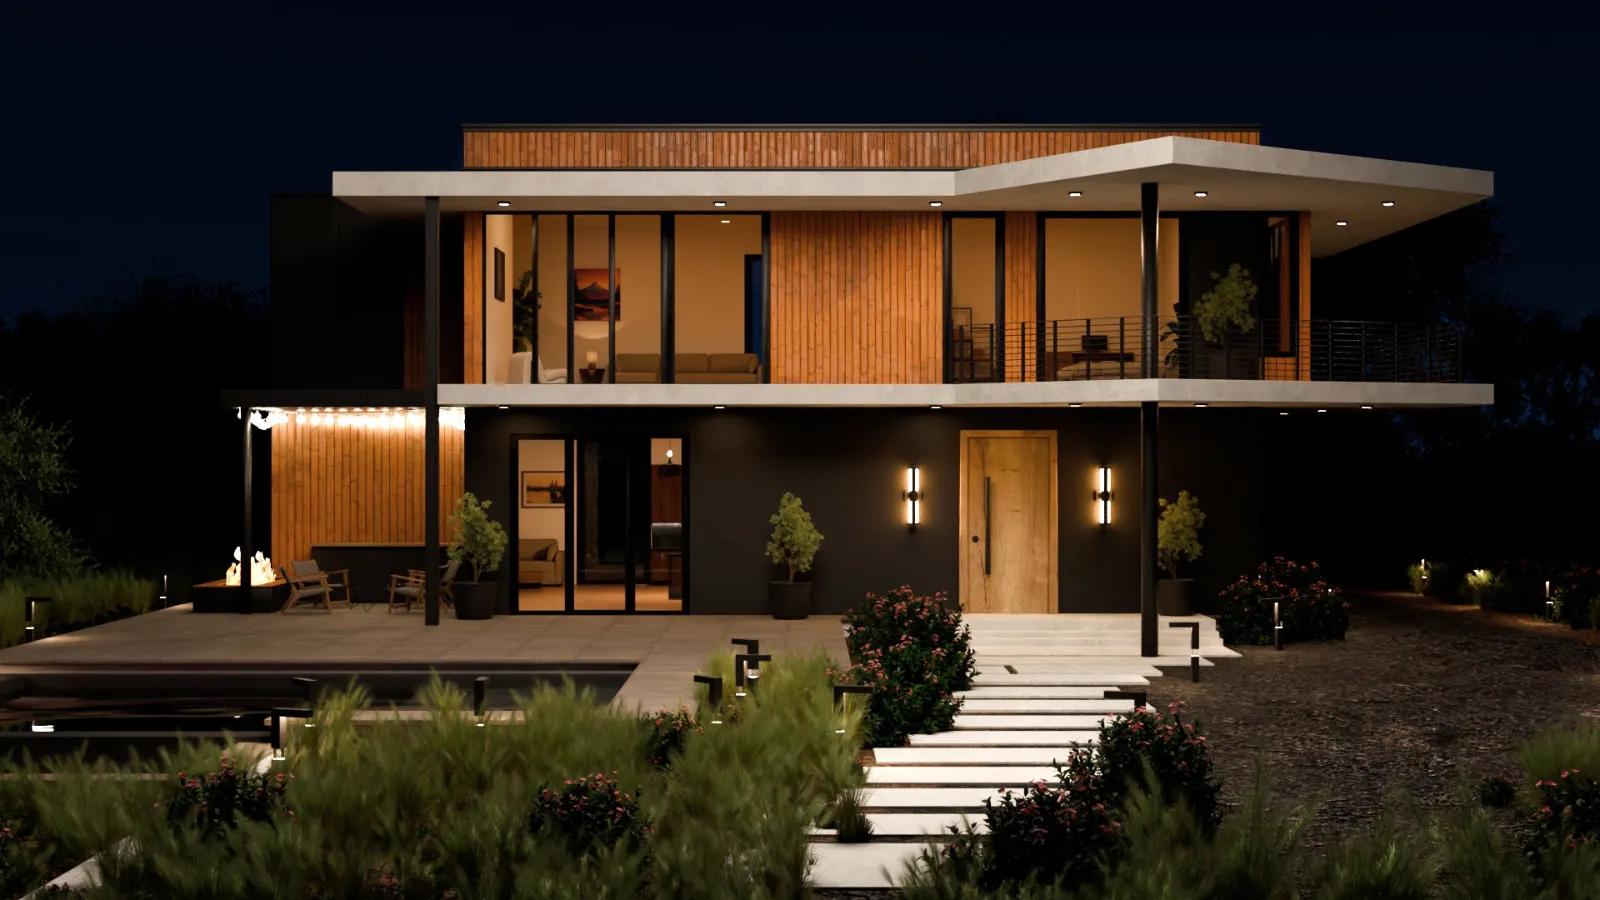
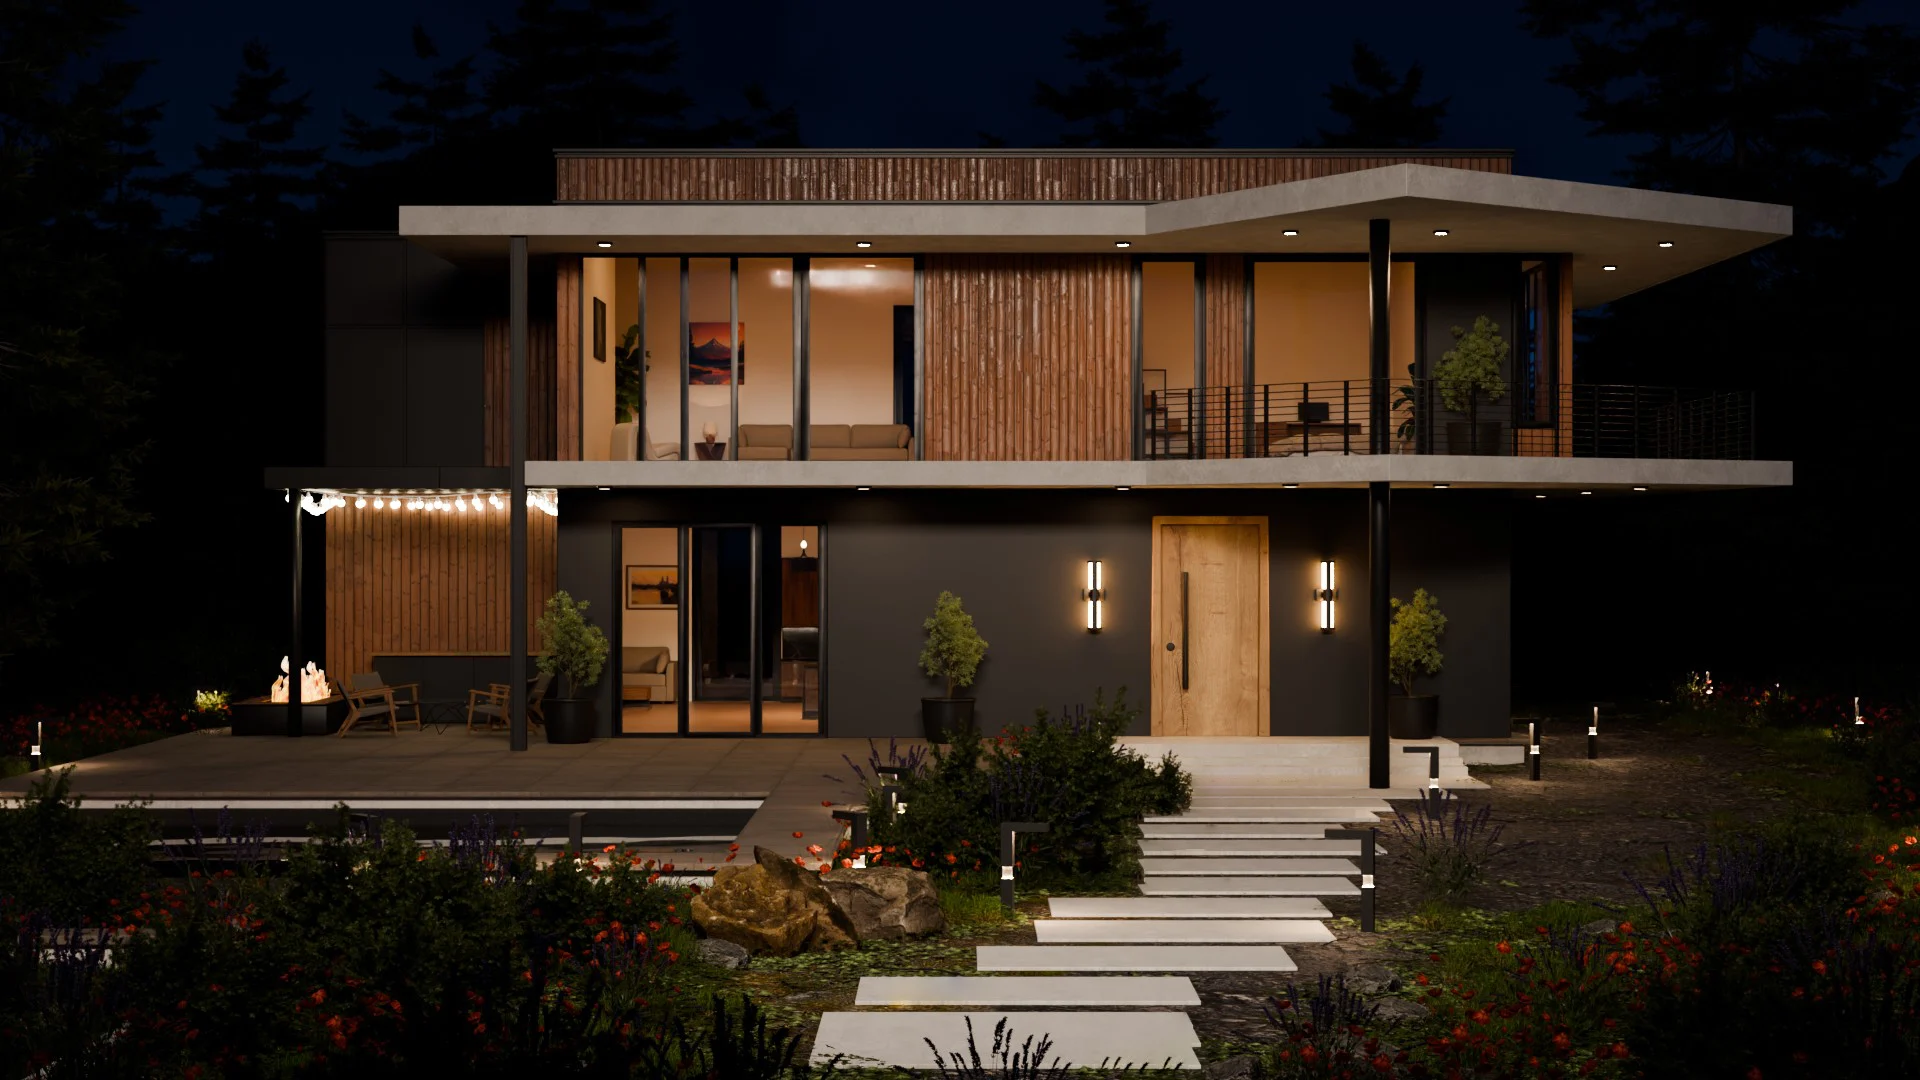
ss
ss

diff --git a/lib/projects.ts b/lib/projects.ts
@@ -647,97 +647,6 @@ export const PROJECTS: Project[] = [
     ],
   },
   {
-    id: "5",
-    slug: "modern-house-exterior",
-    thumbnail: "/images/Project_Images/bg.webp",
-    heroImage: "/images/Project_Images/exteriorday1.webp",
-    previewImage: "/images/Project_Images/exteriorday1.webp",
-    title: "Modern House Exterior",
-    titleRo: "Exterior Casa Moderna",
-    subtitle: "Personal ArchViz Project",
-    subtitleRo: "Proiect Personal ArchViz",
-    description:
-      "Photorealistic exterior visualization of a modern house with clean architectural lines, generous glazing, and a warm natural material palette. The project focuses on atmosphere, realistic daylight behavior, and evening presentation, showing how the same facade performs across different lighting conditions.",
-    descriptionRo:
-      "Vizualizare fotorealista de exterior pentru o casa moderna, cu linii arhitecturale curate, vitraje generoase si o paleta calda de materiale naturale. Proiectul pune accent pe atmosfera, comportamentul realist al luminii de zi si prezentarea de seara, aratand cum aceeasi fatada functioneaza in conditii diferite de iluminare.",
-    tools: ["Blender", "Affinity Photo", "Autodesk AutoCAD"],
-    year: "2026",
-    type: "Exterior Architectural Visualization",
-    typeRo: "Vizualizare Arhitecturala de Exterior",
-    imageAlt:
-      "Modern house exterior architectural visualization with clean lines, large glass openings, and warm materials shown in day and night lighting",
-    imageAltRo:
-      "Vizualizare arhitecturala de exterior pentru o casa moderna, cu linii curate, vitraje mari si materiale calde, prezentata in lumina de zi si de noapte",
-    metaTitle: "Modern House Exterior | Residential ArchViz Project",
-    metaDescription:
-      "Residential exterior visualization of a modern house with large glass openings, natural materials, and realistic day and night lighting for architectural presentation.",
-    images: [
-      {
-        type: "image",
-        label: "Day Render",
-        labelRo: "Randare de Zi",
-        image: "/images/Project_Images/exteriorday1.webp",
-        alt: "Daylight render of a modern house exterior with large glass openings and warm natural materials",
-      },
-      {
-        type: "image",
-        label: "Night Render",
-        labelRo: "Randare de Noapte",
-        image: "/images/Project_Images/exteriornight1.webp",
-        alt: "Night render of a modern house exterior with illuminated glazing and moody architectural lighting",
-      },
-    ],
-  },
-  {
-    id: "7",
-    slug: "contemporary-apartment",
-    thumbnail: "/images/Project_Images/bedroom1.webp",
-    heroImage: "/images/Project_Images/living1.webp",
-    previewImage: "/images/Project_Images/living1.webp",
-    title: "Contemporary Apartment",
-    titleRo: "Apartament Contemporan",
-    subtitle: "Personal ArchViz Project",
-    subtitleRo: "Proiect Personal ArchViz",
-    description:
-      "Photorealistic interior visualization of a contemporary apartment developed from blueprints and CAD references, with each room modeled to real-world scale and proportion. The project presents the living room, bedroom, and kitchen as a cohesive residential interior focused on accurate layout translation, realistic materials, and clear presentation for design approval and marketing.",
-    descriptionRo:
-      "Vizualizare fotorealista de interior pentru un apartament contemporan dezvoltat pe baza planurilor si fisierelor CAD, cu fiecare incapere modelata la scara reala si proportii corecte. Proiectul prezinta livingul, dormitorul si bucataria ca un interior rezidential coerent, axat pe transpunerea precisa a layout-ului, materiale realiste si prezentare clara pentru aprobare si marketing.",
-    tools: ["Blender", "Affinity Photo", "Autodesk AutoCAD"],
-    year: "2026",
-    type: "Interior Architectural Visualization",
-    typeRo: "Vizualizare Arhitecturala de Interior",
-    imageAlt:
-      "Contemporary apartment interior visualization with accurately modeled living room, bedroom, and kitchen based on blueprints and CAD references",
-    imageAltRo:
-      "Vizualizare de apartament contemporan cu living, dormitor si bucatarie modelate precis pe baza planurilor si fisierelor CAD",
-    metaTitle: "Contemporary Apartment | Interior ArchViz Portfolio Project",
-    metaDescription:
-      "Contemporary apartment interior visualization developed from blueprints and CAD files, featuring accurate living room, bedroom, and kitchen renders with real-world scale and material realism.",
-    images: [
-      {
-        type: "image",
-        label: "Living Room Render",
-        labelRo: "Randare Living",
-        image: "/images/Project_Images/living1.webp",
-        alt: "Contemporary apartment living room visualization with clean furniture layout, soft lighting, and realistic material detailing",
-      },
-      {
-        type: "image",
-        label: "Bedroom Render",
-        labelRo: "Randare Dormitor",
-        image: "/images/Project_Images/bedroom1.webp",
-        alt: "Contemporary apartment bedroom visualization with calm neutral palette, accurate proportions, and soft daylight",
-      },
-      {
-        type: "image",
-        label: "Kitchen Render",
-        labelRo: "Randare Bucatarie",
-        image: "/images/Project_Images/kitchen1.webp",
-        alt: "Contemporary apartment kitchen visualization with realistic cabinetry, lighting, and accurately scaled layout",
-      },
-    ],
-  },
-  {
     id: "6",
     slug: "mediterranean-stone-bedroom",
     thumbnail: "/images/Project_Images/bedroom2.webp",